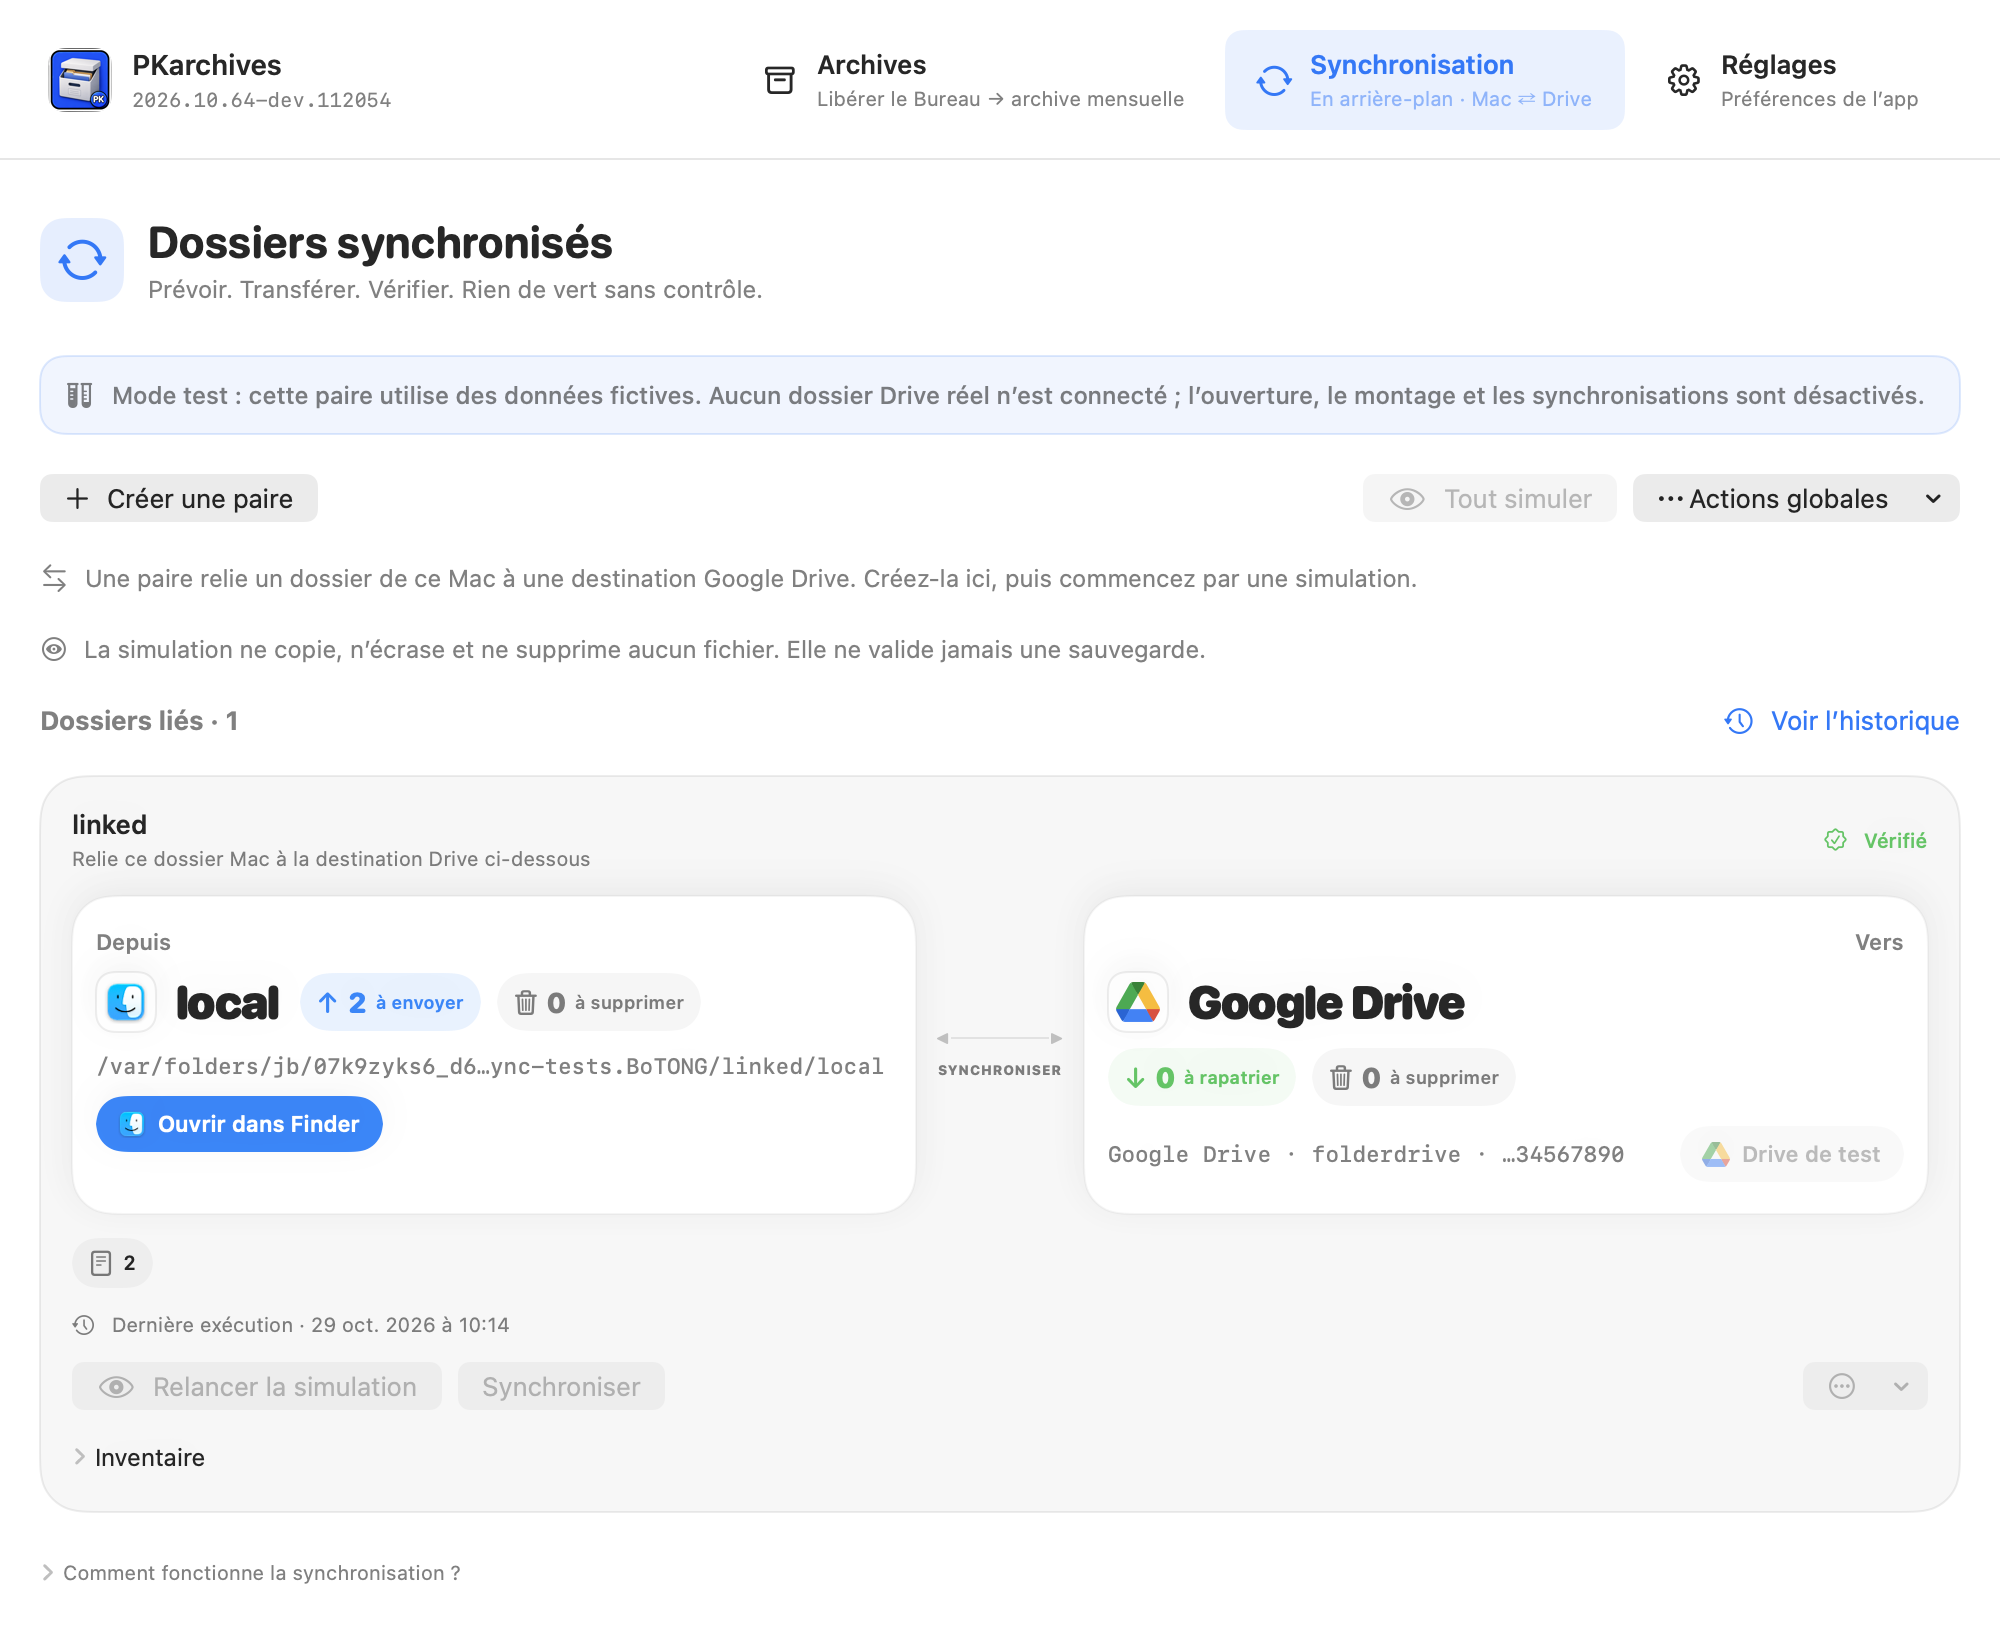
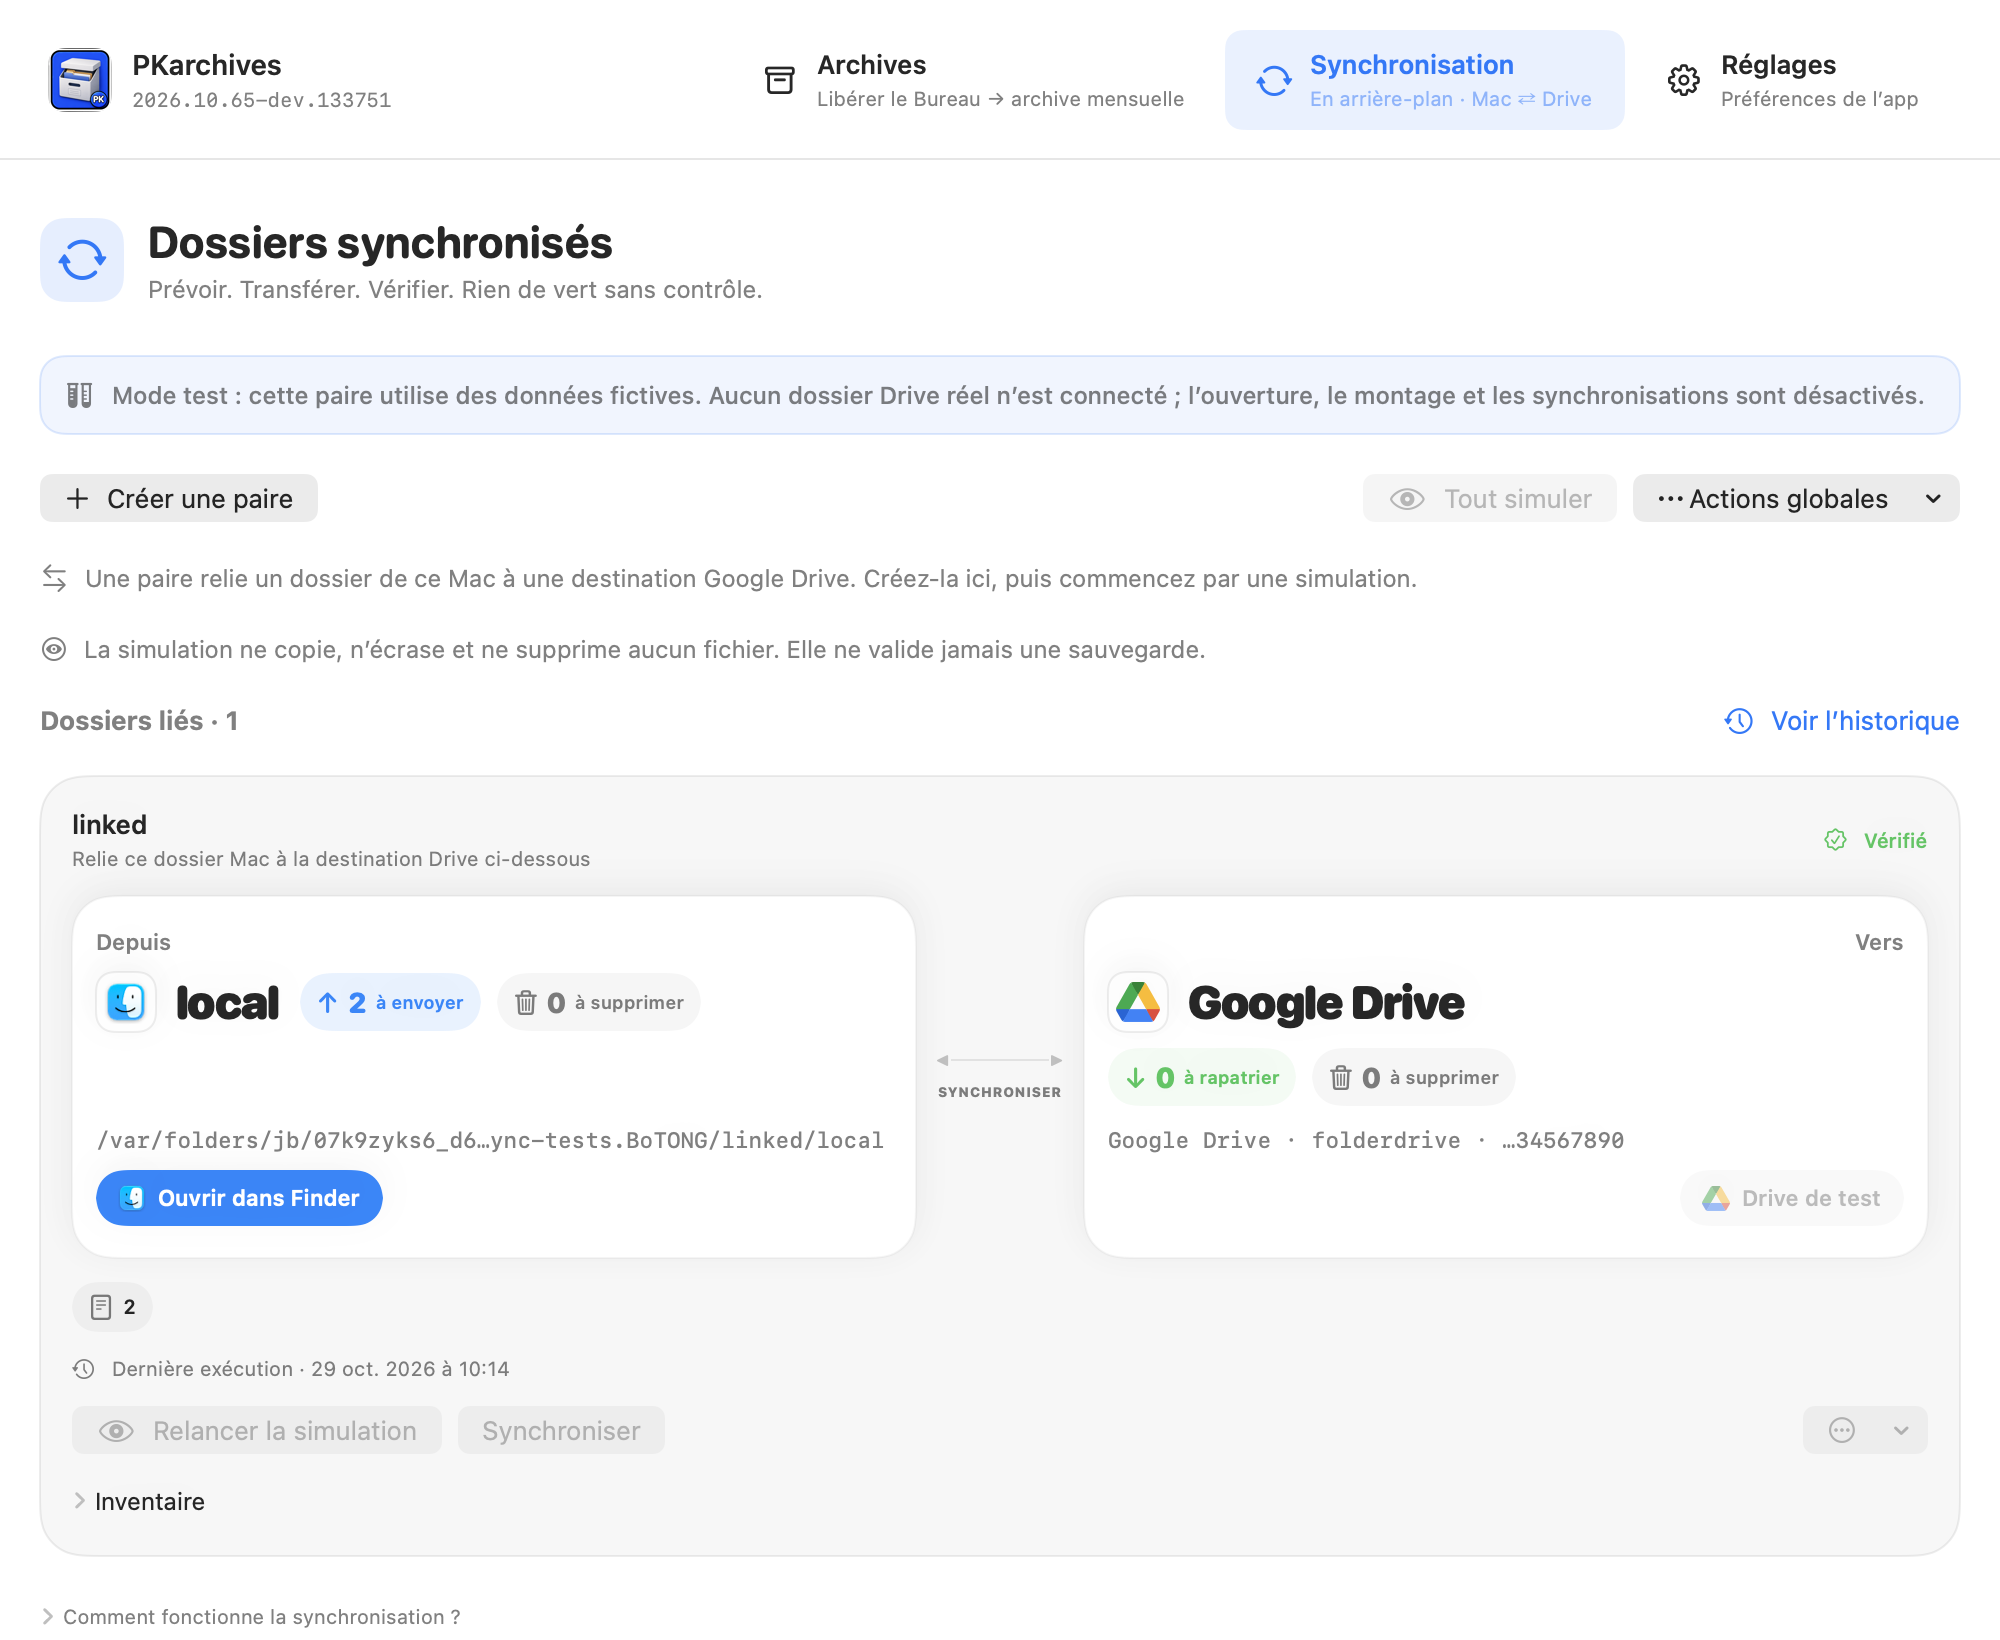
FIX: aligner les boutons des deux emplacements

diff --git a/src/macos/PKSync.swift b/src/macos/PKSync.swift
@@ -267,17 +267,17 @@ struct SyncPairLocations: View {
     private var isQAScreen: Bool { CommandLine.arguments.contains("--qa-screen") }
     var body: some View {
         HStack(spacing: 10) {
-            localEndpoint(trailing: false, compact: false).frame(maxWidth: .infinity)
+            localEndpoint(trailing: false).frame(maxWidth: .infinity)
             directionBridge(vertical: false).frame(width: 64)
-            remoteEndpoint(trailing: true, compact: false).frame(maxWidth: .infinity)
+            remoteEndpoint(trailing: true).frame(maxWidth: .infinity)
         }.frame(maxWidth: .infinity)
     }
 
-    private func localEndpoint(trailing: Bool, compact: Bool) -> some View {
+    private func localEndpoint(trailing: Bool) -> some View {
         let uploads = (plan?.pushNew.count ?? 0) + (plan?.pushModified.count ?? 0)
         return endpoint(
             eyebrow: syncText("fromSide"), title: localFolderName,
-            path: shortPath(pair.localPath), icon: finderIcon, tint: .blue, trailing: trailing, compact: compact,
+            path: shortPath(pair.localPath), icon: finderIcon, tint: .blue, trailing: trailing,
             transferIcon: "arrow.up", transferCount: uploads, transferLabel: syncText("sendShort"),
             deletionCount: plan?.deleteLocal.count ?? 0, showOps: plan != nil,
             transferKind: .push, deletionKind: .deleteLocal,
@@ -286,11 +286,11 @@ struct SyncPairLocations: View {
         )
     }
 
-    private func remoteEndpoint(trailing: Bool, compact: Bool) -> some View {
+    private func remoteEndpoint(trailing: Bool) -> some View {
         let downloads = (plan?.pullNew.count ?? 0) + (plan?.pullModified.count ?? 0)
         return endpoint(
             eyebrow: syncText("toSide"), title: remoteFolderName, path: remotePath,
-            icon: driveIcon, tint: .green, trailing: trailing, compact: compact,
+            icon: driveIcon, tint: .green, trailing: trailing,
             transferIcon: "arrow.down", transferCount: downloads, transferLabel: syncText("downloadShort"),
             deletionCount: plan?.deleteRemote.count ?? 0, showOps: plan != nil,
             transferKind: .pull, deletionKind: .deleteRemote,
@@ -325,7 +325,7 @@ struct SyncPairLocations: View {
             ?? NSImage(size: NSSize(width: 18, height: 18))
     }
 
-    private func endpoint(eyebrow: String, title: String, path: String, icon: NSImage, tint: Color, trailing: Bool, compact: Bool,
+    private func endpoint(eyebrow: String, title: String, path: String, icon: NSImage, tint: Color, trailing: Bool,
                           transferIcon: String, transferCount: Int, transferLabel: String,
                           deletionCount: Int, showOps: Bool, transferKind: SyncOperationKind, deletionKind: SyncOperationKind,
                           actionTitle: String, actionIcon: NSImage,
@@ -351,27 +351,11 @@ struct SyncPairLocations: View {
                                     transferKind: transferKind, deletionKind: deletionKind)
                 }.frame(maxWidth: .infinity, alignment: .leading)
             }
-            if compact {
-                VStack(alignment: .leading, spacing: 8) {
-                    endpointPath(path)
-                    endpointActions(actionTitle: actionTitle, actionIcon: actionIcon, tint: tint,
-                                    disabled: actionDisabled, action: action, mountAction: mountAction)
-                }.padding(.top, 10)
-            } else {
-                ViewThatFits(in: .horizontal) {
-                    HStack(spacing: 8) {
-                        endpointPath(path)
-                        Spacer(minLength: 8)
-                        endpointActions(actionTitle: actionTitle, actionIcon: actionIcon, tint: tint,
-                                        disabled: actionDisabled, action: action, mountAction: mountAction)
-                    }
-                    VStack(alignment: .leading, spacing: 8) {
-                        endpointPath(path)
-                        endpointActions(actionTitle: actionTitle, actionIcon: actionIcon, tint: tint,
-                                        disabled: actionDisabled, action: action, mountAction: mountAction)
-                    }
-                }.padding(.top, 10)
-            }
+            Spacer(minLength: 10)
+            endpointPath(path)
+            endpointActions(actionTitle: actionTitle, actionIcon: actionIcon, tint: tint,
+                            disabled: actionDisabled, action: action, mountAction: mountAction)
+                .padding(.top, 8)
         }
         .padding(.horizontal, 12).padding(.vertical, 16)
         .frame(maxWidth: .infinity, minHeight: 108, maxHeight: .infinity, alignment: .topLeading)

diff --git a/README.md b/README.md
@@ -89,7 +89,7 @@ Le nouveau mode est disponible dans les sources et la build Dev, **pas encore da
 
 **Réglages → Général** : lancement à l’ouverture de session (en arrière-plan, avec approbation macOS si nécessaire) et affichage de barre des menus : **Débit**, **Fichiers restants** ou **Icône seule**. Les chiffres proviennent des statistiques rclone de l’exécution en cours, actualisées environ toutes les 5 s ; les paires encore en attente ne sont pas comptées et le total peut évoluer pendant l’analyse. Analyse, simulation et vérification ont leur propre état ; au repos, seule l’icône reste affichée. L’archivage affiche le nombre d’éléments restants.
 
-**Paires de synchronisation** : les deux panneaux **Depuis / Vers** restent côte à côte et de même taille, même à la largeur minimale de la fenêtre. Le contenu de chaque panneau se réorganise pour préserver la lisibilité. Après simulation, cliquez sur un compteur d’envoi, de rapatriement ou de suppression pour ouvrir directement le tiroir des fichiers concernés : chemin, sens et motif (nouveau, remplacé ou suppression propagée). L’inventaire reste distinct ; aucun second clic « Voir le détail » n’est requis. Pendant un transfert, la liaison et l’indicateur de progression s’animent selon l’état réel ; Finder, Drive et le montage du Drive sont accessibles directement hors mode test.
+**Paires de synchronisation** : les deux panneaux **Depuis / Vers** restent côte à côte et de même taille, même à la largeur minimale de la fenêtre. Leurs chemins et leurs boutons d’ouverture occupent les mêmes rangées, les boutons étant alignés en bas. Le contenu supérieur se réorganise pour préserver la lisibilité. Après simulation, cliquez sur un compteur d’envoi, de rapatriement ou de suppression pour ouvrir directement le tiroir des fichiers concernés : chemin, sens et motif (nouveau, remplacé ou suppression propagée). L’inventaire reste distinct ; aucun second clic « Voir le détail » n’est requis. Pendant un transfert, la liaison et l’indicateur de progression s’animent selon l’état réel ; Finder, Drive et le montage du Drive sont accessibles directement hors mode test.
 
 **Réglages → Synchronisation** : pause globale de toutes les paires (1 h), mode par défaut « Simulation uniquement » pour les nouvelles paires, et liste des paires avec activation, mode simulation et formulaire complet. Ces réglages pilotent le moteur de synchronisation ; la configuration d’archivage reste dans sa propre section.
 

diff --git a/README_en.md b/README_en.md
@@ -89,7 +89,7 @@ The new mode is available in the sources and Dev build, **not yet in the Stable 
 
 **Settings → General**: launch at login (in the background, with macOS approval if needed) and menu bar display: **Transfer speed**, **Remaining files** or **Icon only**. Numbers come from the current run’s rclone stats, updated roughly every 5 s; queued pairs are excluded and totals may change during scanning. Scanning, preview and verification have distinct states; only the icon remains when idle. Archiving shows the remaining item count.
 
-**Sync pairs**: the **From / To** panels stay side by side and the same size even at the minimum window width; each panel rearranges its own content to remain readable. After a preview, click any upload, download or deletion count to open a side drawer with the affected file paths, direction and reason (new, replaced or propagated deletion). Inventory stays separate; there is no second “Show details” click. During a real transfer, the connection and native progress indicator animate with the actual run state; Finder, Drive and Drive mounting remain available outside test mode.
+**Sync pairs**: the **From / To** panels stay side by side and the same size even at the minimum window width. Their paths occupy matching rows and their open buttons align along the bottom; the upper content rearranges to remain readable. After a preview, click any upload, download or deletion count to open a side drawer with the affected file paths, direction and reason (new, replaced or propagated deletion). Inventory stays separate; there is no second “Show details” click. During a real transfer, the connection and native progress indicator animate with the actual run state; Finder, Drive and Drive mounting remain available outside test mode.
 
 **Settings → Synchronization**: global pause of all pairs (1 h), default “Preview only” mode for new pairs, and the pair list with enable/preview switches and the full form. These settings drive the sync engine; archiving configuration stays in its own section.
 

diff --git a/CHANGELOG.md b/CHANGELOG.md
@@ -4,7 +4,7 @@
 
 ## TODO — Roadmap
 
-Statut : `2026.10.64` (cartes Depuis et Vers de taille identique)
+Statut : `2026.10.65` (contenu et boutons alignés dans les deux cartes)
 
 ### Sécurité & Publication GitHub
 - [x] Supprimer les binaire compilé et .app du repo
@@ -18,6 +18,10 @@ Statut : `2026.10.64` (cartes Depuis et Vers de taille identique)
 - [x] Dashboard SwiftUI et TUI avec statistiques et historique
 - [x] Graphique d'activité des archivages
 - [x] Navigation paramètres/historique dans les deux interfaces
+
+### [2026.10.65] - 2026-10-29
+#### Fixed
+- Les chemins et les boutons d’ouverture sont désormais placés dans les mêmes rangées des cartes Depuis et Vers, avec les boutons alignés en bas même si les titres et compteurs occupent des hauteurs différentes.
 
 ### [2026.10.64] - 2026-10-29
 #### Fixed
